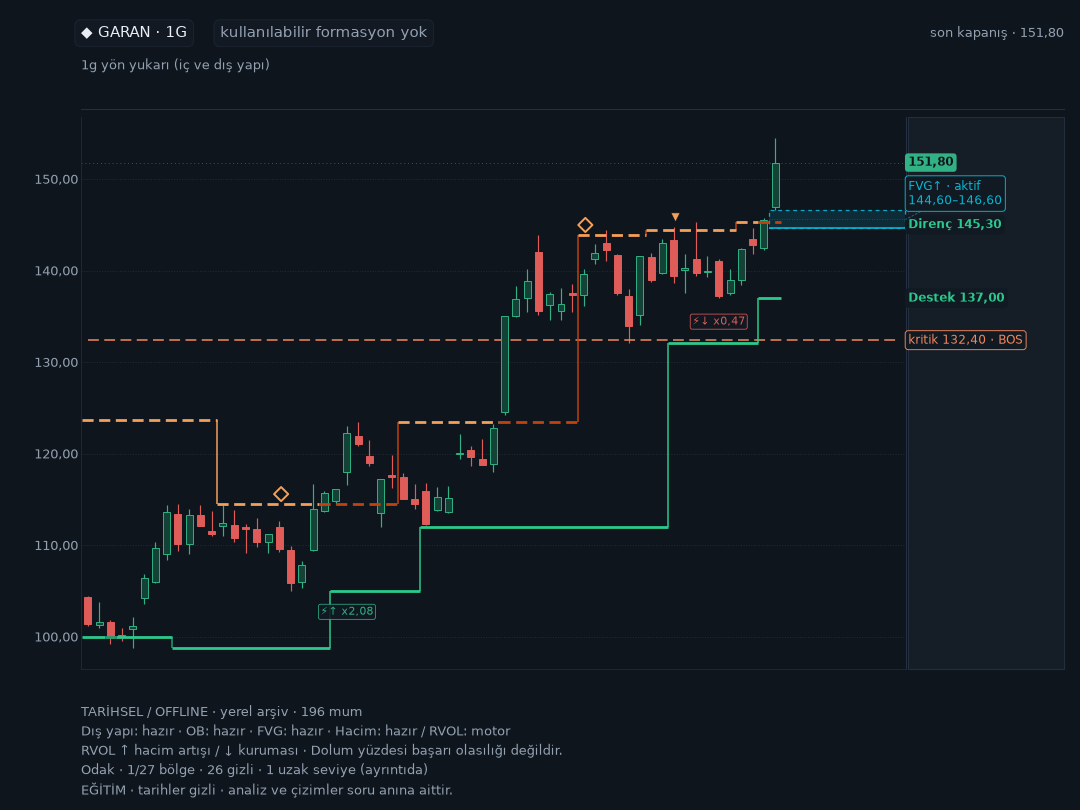
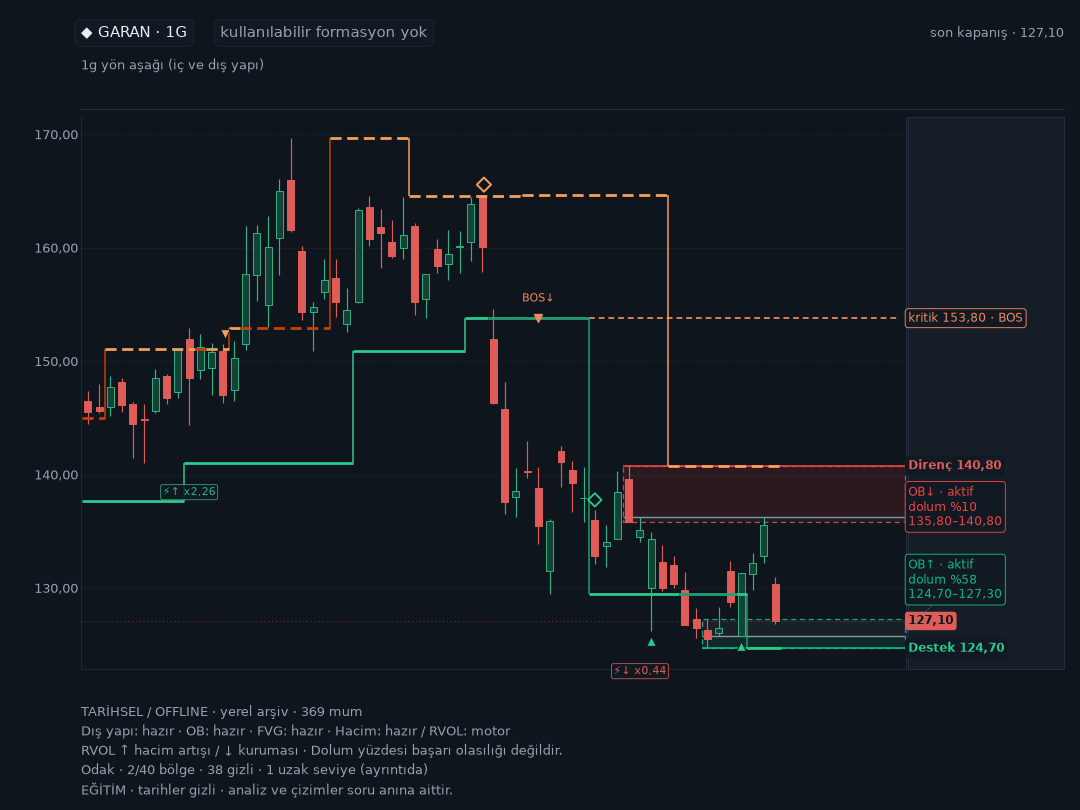
feat(stabil): zayıf ◇ soğuması 20 -> 50 bar (ikinci tur, §14.6)
Üretimde ölçüldü (günlük 50 sembol · 25.051 bar):
◇ 486 -> 364 (-%25) · sembol başına medyan 10 -> 7 · en yoğun 15 -> 13
dolu ▲ 195 (aynı) · momentum ▲ 51 (aynı) · ◇'süz sembol 1 (aynı)
Simülasyon 364 = üretim 364; kural yalnız zayıf denemelere (weak_reclaim,
touch_from_below) uygulanır, güçlü ◇ ve oklar etkilenmez.

- görsel: docs/gorseller/ok_cizgi_ikinci_tur_2026_11_08/ (aynı kare 20 vs 50 bar)
- üretici: stabil_cizgi_seyreltme_gorseller.py artık GORSEL_KLASOR/etiket env'leriyle
- pano: uygulama noktası işaretlendi, tablo 'önce/bugün' olarak etiketlendi

diff --git a/research/ok_egitim_ozet_pano.py b/research/ok_egitim_ozet_pano.py
@@ -82,10 +82,10 @@ def egitim_karesi() -> tuple[str, dict]:
 
 
 SATIR_ADI = {   # tabloda sığan kısa adlar
-    "S0 · 20 bar (bugün)": "S0 · 20 bar (bugün)",
+    "S0 · 20 bar (bugün)": "S0 · 20 bar (önce)",
     "S1 · 30 bar": "S1 · 30 bar",
     "S2 · 40 bar": "S2 · 40 bar",
-    "S6 · 50 bar": "S6 · 50 bar",
+    "S6 · 50 bar": "S6 · 50 bar (bugün)",
     "S7 · 60 bar": "S7 · 60 bar",
     "S8 · 40 bar + rvol≥1,5 deler": "S8 · 40 bar + rvol",
     "S3 · seviye başına 1": "S3 · seviye başına 1",
@@ -155,7 +155,7 @@ def pano(kare_yolu: str, direnc: dict) -> str:
             ha="center", va="top", color=SOLUK, fontsize=8.6)
 
     # ---------- 3 · ◇ eğrisi ----------
-    ax.text(0.055, 0.285, "3 · ◇ İKİNCİ TUR: soğuma kaç bar olmalı?", color=VURGU,
+    ax.text(0.055, 0.285, "3 · ◇ İKİNCİ TUR: soğuma 20 → 50 bar (uygulandı)", color=VURGU,
             fontsize=12.5, fontweight="bold")
     eax = fig.add_axes([0.062, 0.082, 0.40, 0.182])
     eax.set_facecolor("#161b22")
@@ -170,6 +170,9 @@ def pano(kare_yolu: str, direnc: dict) -> str:
     for x, yy, ad in EGRI:
         eax.annotate(f"{yy} · {ad}", (x, yy), textcoords="offset points",
                      xytext=kaymalar.get(x, (0, 9)), ha="center", color=METIN, fontsize=7.4)
+    eax.scatter([50], [364], s=190, facecolor="none", edgecolor=YESIL, lw=2.2, zorder=4)
+    eax.annotate("uygulandı", (50, 364), textcoords="offset points", xytext=(26, -30),
+                 color=YESIL, fontsize=7.6, fontweight="bold")
     eax.set_xlabel("zayıf ◇ soğuması (bar)", color=SOLUK, fontsize=8)
     eax.set_ylabel("günlük 50 sembolde ◇", color=SOLUK, fontsize=8)
     eax.tick_params(colors=SOLUK, labelsize=7.4)
@@ -202,8 +205,8 @@ def pano(kare_yolu: str, direnc: dict) -> str:
     ax.text(0.525, y - 0.042,
             "Yeşil = kilitli eşikleri geçen tek aday: 50 bar → 364 (bugüne göre −%25, 3 bar'a\n"
             "göre −%51). 40 bar eşiği 7 işaretle kaçırıyor; 50/60 bar geçiyor ama kazanç azalıyor.\n"
-            "Atılanların ~%26'sı 20 bar içinde bir ▲ ile öncülenmiş — kesilen sınıf, bugün de\n"
-            "gürültü sayılan sınıfın ta kendisi. Kural bu turda UYGULANMADI: karar sizde.",
+            "UYGULANDI: soğuma 20 → 50 bar. Üretimde ölçüldü: ◇ 486 → 364 · sembol başına 10 → 7 ·\n"
+            "dolu ▲ 195 (aynı) · momentum ▲ 51 (aynı) · ◇'süz sembol 1 (aynı).",
             color=SOLUK, fontsize=8.2, va="top")
 
     ax.text(0.525, 0.009,

diff --git a/domain_engines/stabil/signals.py b/domain_engines/stabil/signals.py
@@ -53,12 +53,16 @@ _GUCLU_YUKARI_COOLDOWN_BAR = 3
 # Bu üç sabit eşikleri gevşetmez, yalnız yanlış yere basılan oku süzer.
 _OK_MAKS_MESAFE_ATR = 1.80          # ▲: kapanış çizgiden bu kadar ATR uzaktaysa ok yok (M1 sınırıyla aynı)
 # ◇ yapı uyarısı (dikey/kademeli destek) seyreltme — 2026-11-08, kullanıcı kararı.
-# Ölçüm (günlük 50 sembol, 737 ◇): zayıf denemelerin soğuması 3 bar iken 737 ◇
-# (sembol başına 14,7) basılıyordu; 20 bara çıkınca 484 (sembol başına 9,7, −%34)
-# ve 3 aylık pencerede 4-6 ◇ → 1-2. GÜÇLÜ bastırılmış adaylar (close_reclaim /
-# sweep / momentum) bu soğumaya TABİ DEĞİL: "dikey destek, fiyat üstüne çıktı,
-# ▲ konmaz" bilgisi kaybolmaz. ▲/momentum okları hiç etkilenmez.
-_DIKEY_UYARI_SOGUMA_BAR = 20        # zayıf ◇ aynı bölgede 20 barda bir basılır (~1 ay)
+# İKİ TUR ölçüldü (günlük 50 sembol; ikisi de yalnız ZAYIF denemelere uygulanır):
+#   3 bar → 737 ◇ (sembol başına 14,7)          [eski hâl]
+#   20 bar → 486 ◇ (9,7; −%34)                  [1. tur, §10]
+#   50 bar → 364 ◇ (7,0; 3 bar'a göre −%51)     [2. tur, §14.3 — SEÇİLEN]
+# 40 bar (396) kazanç eşiğini 7 işaretle kaçırdı, 60 bar (335) kazancı azalttı;
+# "seviye başına 1" (650) ve "20 bar + seviye başına 1" (486) ek kazanç vermedi.
+# GÜÇLÜ bastırılmış adaylar (close_reclaim / sweep / momentum) bu soğumaya TABİ
+# DEĞİL: "dikey destek, fiyat üstüne çıktı, ▲ konmaz" bilgisi kaybolmaz.
+# ▲/momentum okları hiç etkilenmez. Ölçüm: research/stabil_cizgi_seyreltme_olcum.py
+_DIKEY_UYARI_SOGUMA_BAR = 50        # zayıf ◇ aynı bölgede 50 barda bir basılır (~2,5 ay)
 
 
 def _enum_value(value: Any) -> str:

diff --git a/research/stabil_cizgi_seyreltme_gorseller.py b/research/stabil_cizgi_seyreltme_gorseller.py
@@ -22,7 +22,11 @@ from pathlib import Path
 import grafik
 
 ROOT = Path(__file__).resolve().parents[1]
-OUT = ROOT / "docs/gorseller/ok_cizgi_seyreltme_2026_11_08"
+# Klasör ve etiketler ortam değişkeniyle değiştirilebilir: aynı üretici hem
+# 1. turu (3 → 20 bar) hem 2. turu (20 → 50 bar) çeker.
+OUT = ROOT / os.environ.get("GORSEL_KLASOR", "docs/gorseller/ok_cizgi_seyreltme_2026_11_08")
+ONCE_ETIKET = os.environ.get("GORSEL_ONCE_ETIKET", "ÖNCE · ◇ her 3 barda bir tekrar")
+SONRA_ETIKET = os.environ.get("GORSEL_SONRA_ETIKET", "SONRA · ◇ 20 barda bir (~1 ay)")
 PKG = ROOT / "domain_engines/stabil"
 
 #: (sembol, gün, kısa ad) — ◇ yoğunluğu yüksek bilinen kareler
@@ -83,8 +87,8 @@ def karsilastir() -> int:
             continue
         sekil, eksenler = plt.subplots(2, 1, figsize=(11.0, 12.4), facecolor="#0e1116")
         for eksen, yol, etiket, renk in (
-            (eksenler[0], once_yol, "ÖNCE · ◇ her 3 barda bir tekrar", "#9aa7b4"),
-            (eksenler[1], sonra_yol, "SONRA · ◇ 20 barda bir (~1 ay)", "#2cc98d"),
+            (eksenler[0], once_yol, ONCE_ETIKET, "#9aa7b4"),
+            (eksenler[1], sonra_yol, SONRA_ETIKET, "#2cc98d"),
         ):
             eksen.imshow(_kirp(mpimg.imread(yol)))
             eksen.axis("off")

diff --git a/docs/arastirma/OK_SISTEMI_2026-11-08.md b/docs/arastirma/OK_SISTEMI_2026-11-08.md
@@ -535,7 +535,7 @@ Kırpıcıda iki kusur bulundu ve düzeltildi (`grafik/panels.py`):
 
 Test: `test_stabil_resistance_chart_render.py` (9 test; yeni `test_legend_never_drops_the_arrow_dictionary`).
 
-### 14.3 ◇ ikinci tur — ÖLÇÜLDÜ, UYGULANMADI
+### 14.3 ◇ ikinci tur — ölçüm (karar: 50 bar, §14.6)
 Soru: bugünkü 486 ◇'in 297'si hâlâ zayıf. İkinci bir tur anlamlı kazanç verir mi, bedeli ne?
 
 Kütle: günlük 50 sembol · 25.051 bar · filtre yalnız zayıf ◇ (`weak_reclaim`, `touch_from_below`);
@@ -563,8 +563,7 @@ Simülatörün sadakati: S0 = **486**, üretimin bugünkü sayısıyla birebir; 
 **Sonuç:** anlamlı ikinci tur ancak **50 bar**'da başlıyor (486 → 364, bugüne göre −%25, 3 bar'lık eski
 kurala göre −%51). 40 bar eşiği 7 işaretle kaçırıyor; 50 → 60 bar arası kazanç azalıyor (+29 işaret için
 soğuma 10 bar daha). Atılanların ~%26'sı 20 bar içinde bir ▲ ile öncülenmiş — yani kesilen sınıf bugün de
-gürültü sayılan sınıfın aynısı. **Kural uygulanmadı**; karar kullanıcıda (sıfır kod değişikliği,
-tek satır: `_DIKEY_UYARI_SOGUMA_BAR` 20 → 50).
+gürültü sayılan sınıfın aynısı. **Kullanıcı kararı: 50 bar uygulanır** (§14.6).
 
 ### 14.4 Görseller — `docs/gorseller/ok_egitim_lejant_2026_11_08/`
 | Dosya | İçerik |
@@ -580,3 +579,28 @@ karelerden üretildi; pano yeniden üretilebilir).
 - ◇ bir "dikkat" işaretidir; bu ölçüm **işaret sayısını** ölçtü, ◇'in öngörü değerini değil
   (o soru ayrı bir replay ister).
 - Öncü oranı, atılan ◇'nin ▲ ile ilişkisini gösterir; ◇'e bağlı hiçbir karar kuralı yoktur.
+
+### 14.6 UYGULAMA — zayıf ◇ soğuması 20 → 50 bar (2026-11-08, kullanıcı kararı)
+`domain_engines/stabil/signals.py::_DIKEY_UYARI_SOGUMA_BAR` = **50**. Kural aynen §10'daki gibi
+**yalnız zayıf** denemelere (`weak_reclaim`, `touch_from_below`) uygulanır; güçlü bastırılmış aday,
+▲ ve momentum hiç etkilenmez.
+
+Üretim doğrulaması (kod çalıştırıldı, aynı 50 sembol · 25.051 bar):
+
+| Ölçüm | 20 bar (önce) | **50 bar (sonra)** |
+|---|---|---|
+| ◇ toplam | 486 | **364 (−%25)** |
+| ◇ sembol başına medyan | 10 | **7** |
+| ◇ en yoğun sembol | 15 | **13** |
+| ◇'süz sembol | 1 | 1 (değişmedi) |
+| Dolu ▲ | 195 | **195** |
+| Momentum ▲ | 51 | **51** |
+
+Simülasyon (364) ile üretim (364) birebir — ölçümün uygulamaya dönüşü doğrulandı.
+
+Kısa pencere (3 ay) karelerinde ikinci turun etkisi küçüktür: 5 örnek karede ◇ 14 → 12, ▲ birebir aynı
+(`docs/gorseller/ok_cizgi_ikinci_tur_2026_11_08/`). Kazanç uzun geçmişte birikir: sembol başına
+birikimli 486 → 364.
+
+Üretici: `research/stabil_cizgi_seyreltme_gorseller.py` (`once` = HEAD/20 bar, `sonra` = çalışma ağacı/50 bar,
+`karsilastir`); klasör ve etiketler `GORSEL_KLASOR`, `GORSEL_ONCE_ETIKET`, `GORSEL_SONRA_ETIKET` ile verilir.

diff --git a/docs/gorseller/ok_cizgi_ikinci_tur_2026_11_08/README.md b/docs/gorseller/ok_cizgi_ikinci_tur_2026_11_08/README.md
@@ -1,0 +1,36 @@
+# ◇ ikinci tur — 20 → 50 bar (8 Kasım 2026)
+
+`docs/arastirma/OK_SISTEMI_2026-11-08.md` **§14.3 (ölçüm)** ve **§14.6 (uygulama)**'nın kanıtı.
+
+Karar: zayıf ◇ soğuması **20 → 50 bar**. Yalnız `weak_reclaim` / `touch_from_below` denemelerine
+uygulanır; güçlü ◇, ▲ okları ve momentum **değişmedi**.
+
+## Sayılar (günlük 50 sembol · 25.051 bar · üretim kodu çalıştırıldı)
+
+| Ölçüm | 20 bar (önce) | 50 bar (sonra) |
+|---|---|---|
+| ◇ toplam | 486 | **364 (−%25)** |
+| Sembol başına medyan | 10 | **7** |
+| En yoğun sembol | 15 | **13** |
+| Dolu ▲ | 195 | **195** |
+| Momentum ▲ | 51 | **51** |
+
+## Kareler
+| Dosya | İçerik |
+|---|---|
+| `karsilastirma_cizgi_*.png` | Aynı kare, iki kod hâli: üstte 20 bar (§10), altta 50 bar. ▲ okları birebir aynı |
+| `cizgi_once_*.png` / `cizgi_sonra_*.png` | Karşılaştırmanın tam kareleri |
+| `cizgi_once.json` / `cizgi_sonra.json` | Kare başına işaret sayıları (◇ / dolu / momentum) |
+
+5 örnek karede ◇ 14 → 12; fark kısa pencerede küçük, uzun geçmişte birikiyor (486 → 364).
+
+## Yeniden üretmek için
+```bash
+export GORSEL_KLASOR=docs/gorseller/ok_cizgi_ikinci_tur_2026_11_08
+export GORSEL_ONCE_ETIKET="ÖNCE · ◇ 20 barda bir (§10)"
+export GORSEL_SONRA_ETIKET="SONRA · ◇ 50 barda bir (~2,5 ay)"
+PYTHONPATH=. .venv/bin/python research/stabil_cizgi_seyreltme_gorseller.py once
+PYTHONPATH=. .venv/bin/python research/stabil_cizgi_seyreltme_gorseller.py sonra
+PYTHONPATH=. .venv/bin/python research/stabil_cizgi_seyreltme_gorseller.py karsilastir
+```
+(`once` = `HEAD` sürümü; bu klasörün kareleri HEAD 20 bar iken üretildi.)
